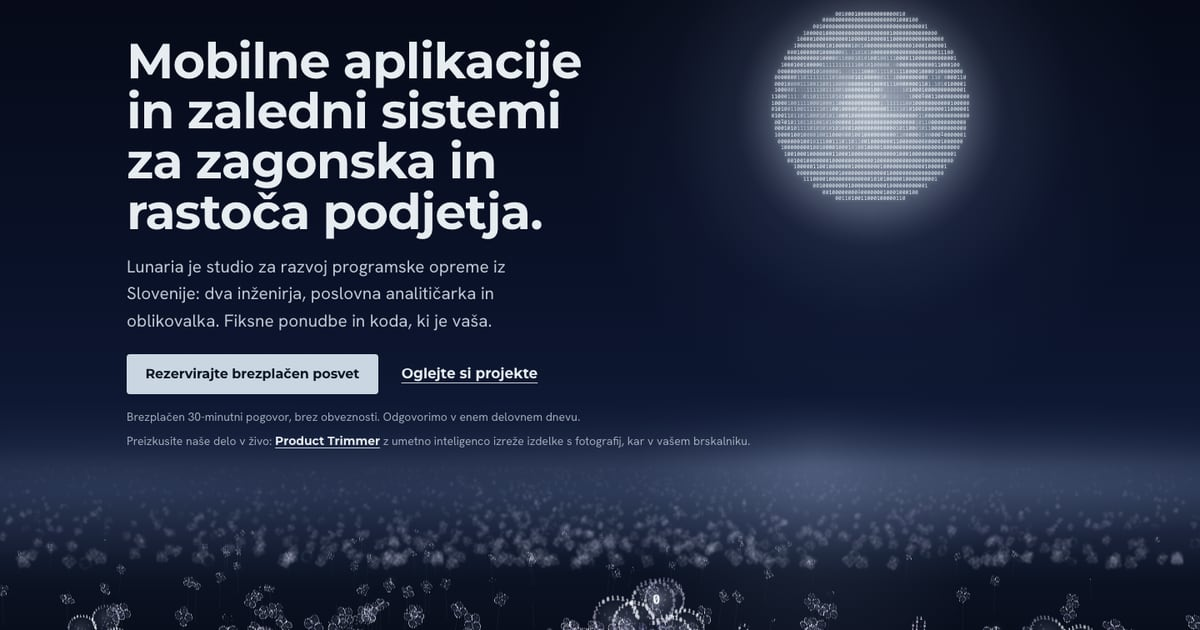
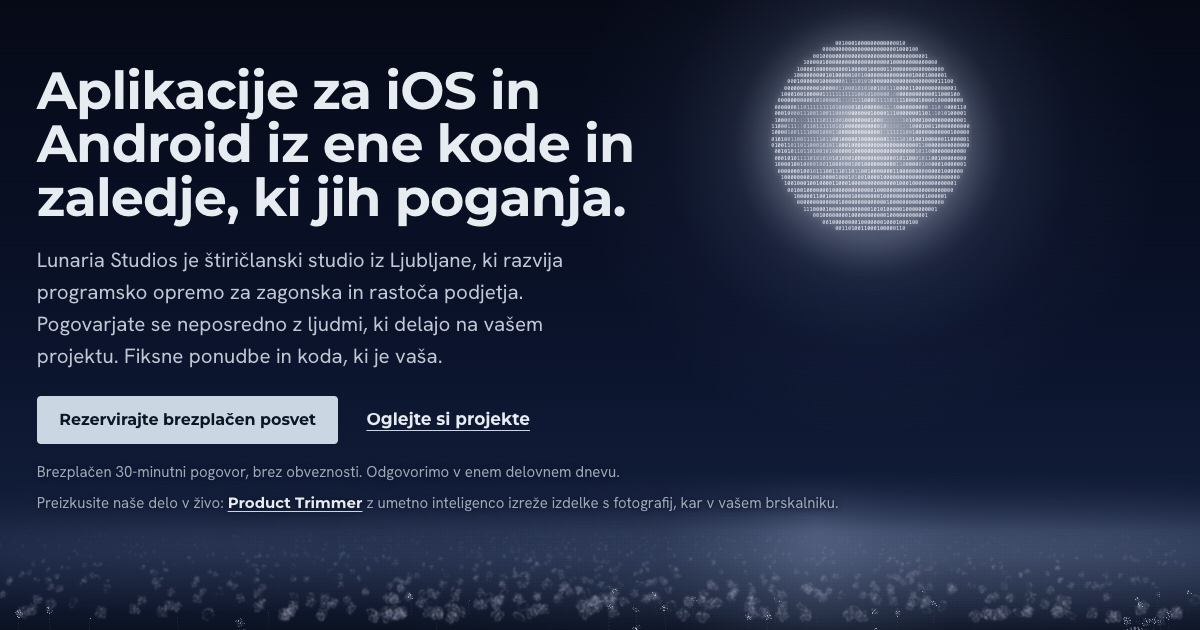
Design pass: phone CTA, case-study rows, larger small text
- Phone header gets a short CTA beside the burger (hidden under 368px)
- Phone hero keeps the trust line by the button; proof line under the field
- Work: one product per row, sides alternating, status as a pill on the
  image, image links to the product; drops the store-links note
- Product Trimmer shot shows a finished cutout instead of an empty canvas
- Small text 14px -> 15px, labels 15.2px -> 16px; Services row headings
  one step smaller; 40px+ tap height on standalone text links
- Hero small lines get a soft shadow where the field glow rises
- Share images recaptured with the new hero

diff --git a/src/i18n/en.ts b/src/i18n/en.ts
@@ -38,6 +38,8 @@ export const en = {
   },
   /** One call to action, same label and destination everywhere on the page. */
   cta: 'Book a free consultation',
+  /** Short form of the CTA for the phone header. */
+  ctaShort: 'Let’s talk',
   hero: {
     audience,
     title: 'iOS and Android apps from one codebase, and the backend behind them.',
@@ -90,7 +92,6 @@ export const en = {
     showsLabel: 'What it shows',
     platformsLabel: 'Platforms',
     stackLabel: 'Built with',
-    linksSoon: 'Store links once it launches.',
     linkLabels: {
       site: 'Visit website',
       demo: 'Try it live',

diff --git a/src/config.ts b/src/config.ts
@@ -38,7 +38,7 @@ export const SOCIAL = {
 };
 
 /** Open Graph share images in /public, per language (1200×630). */
-export const OG_IMAGE = { en: 'og.jpg', sl: 'og-sl.jpg' }; // TODO: replace captures with designed share images
+export const OG_IMAGE = { en: 'og.jpg', sl: 'og-sl.jpg' }; // hero captures, redone Oct 17 2026; TODO: designed share images
 
 /** Location line (services intro, footer, JSON-LD). Empty city renders as a visible TODO. */
 export const CITY = 'Ljubljana'; // used in JSON-LD; the visible location line is copy in src/i18n

diff --git a/src/i18n/sl.ts b/src/i18n/sl.ts
@@ -36,6 +36,7 @@ export const sl: Dict = {
     faq: 'Vprašanja',
   },
   cta: 'Rezervirajte brezplačen posvet',
+  ctaShort: 'Pišite nam',
   hero: {
     audience,
     title: 'Aplikacije za iOS in Android iz ene kode in zaledje, ki jih poganja.',
@@ -88,7 +89,6 @@ export const sl: Dict = {
     showsLabel: 'Kaj dokazuje',
     platformsLabel: 'Platforme',
     stackLabel: 'Tehnologije',
-    linksSoon: 'Povezave do trgovin ob izidu.',
     linkLabels: {
       site: 'Obiščite spletno stran',
       demo: 'Preizkusite v živo',

diff --git a/src/data/projects.ts b/src/data/projects.ts
@@ -83,7 +83,7 @@ export const projects: Project[] = [
       { kind: 'github', href: 'https://github.com/kcvete/product-trimmer' },
     ],
     placeholderPhase: 0.15,
-    image: productTrimmerShot, // captured from the live demo
+    image: productTrimmerShot, // split view after a cut, cropped from product-trimmer-web/out/ui_final.png
   },
   {
     id: 'knotless',

diff --git a/src/styles/global.css b/src/styles/global.css
@@ -20,7 +20,7 @@
   --violet: oklch(0.72 0.07 305); /* rare: the flower's centre only */
   --on-moon: oklch(0.2 0.035 var(--hue));
 
-  --step--1: 0.875rem;
+  --step--1: 0.9375rem;
   --step-0: 1.0625rem;
   --step-1: clamp(1.15rem, 1.1rem + 0.25vw, 1.3rem);
   --step-2: clamp(1.45rem, 1.3rem + 0.7vw, 1.9rem);
